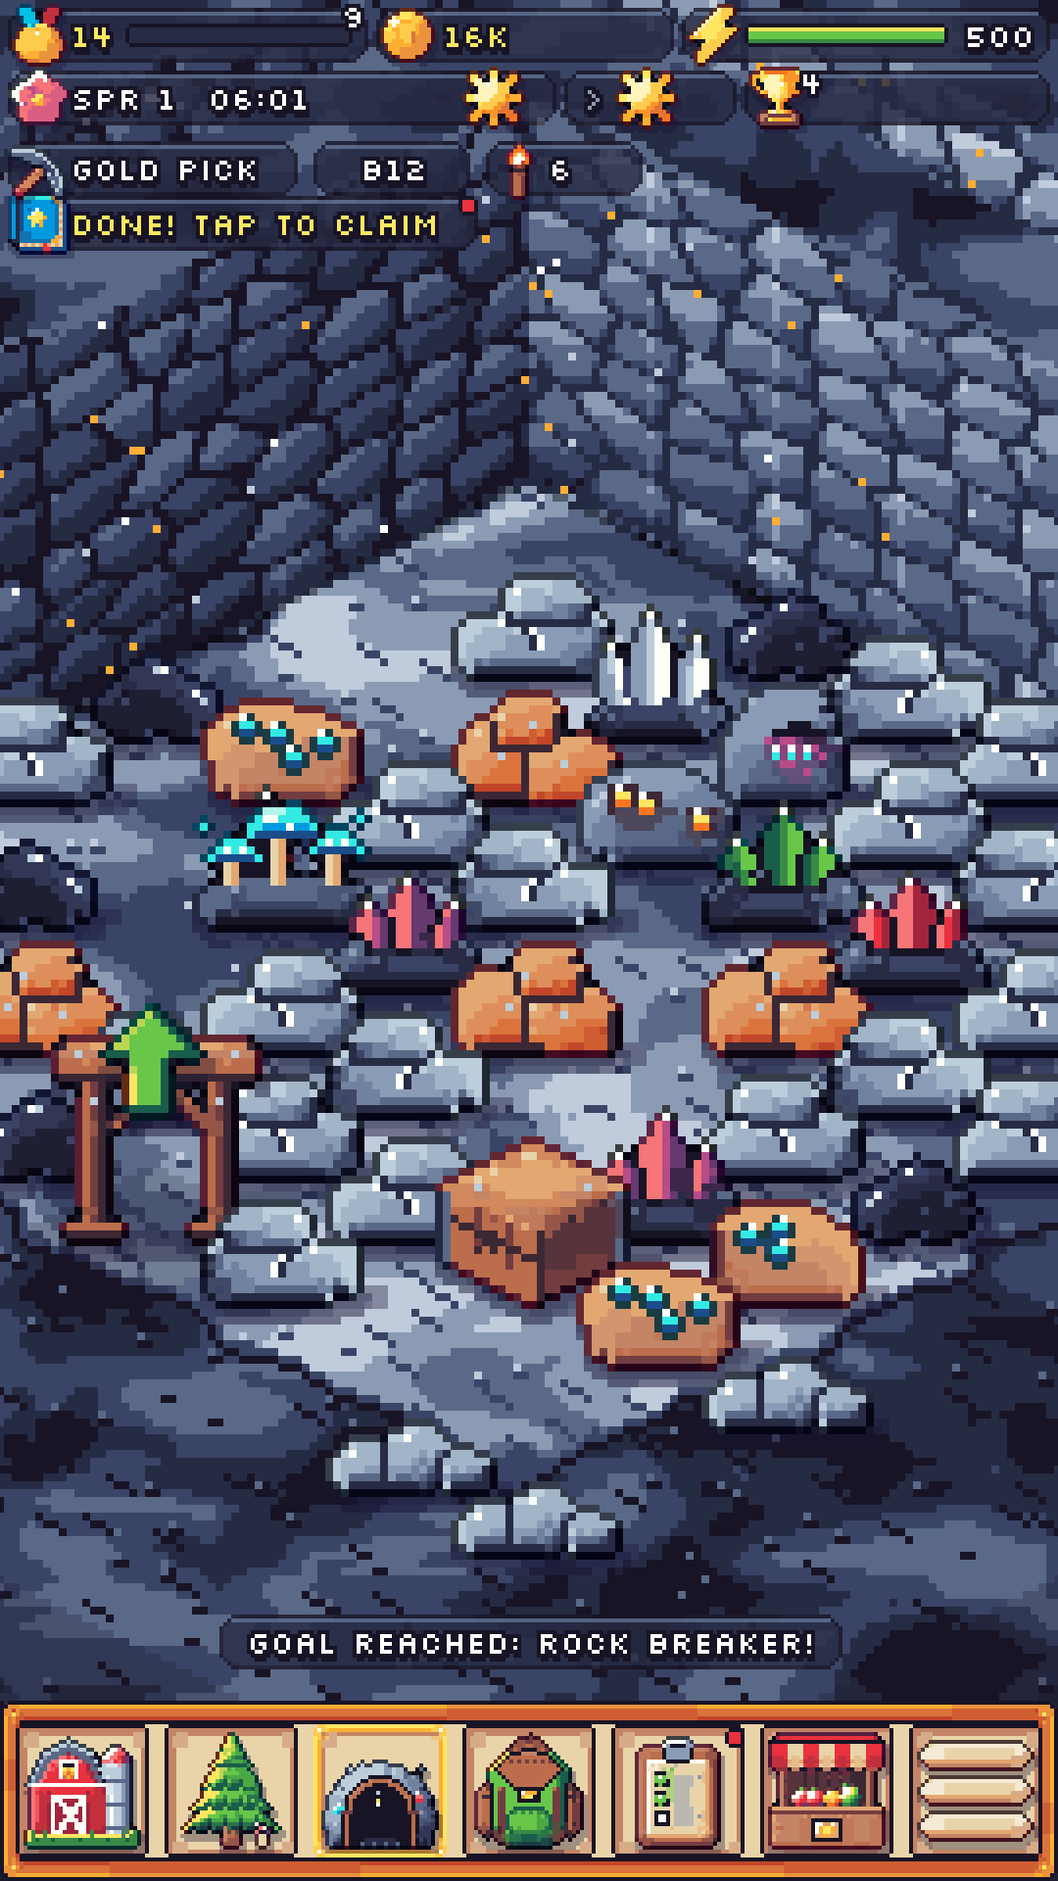
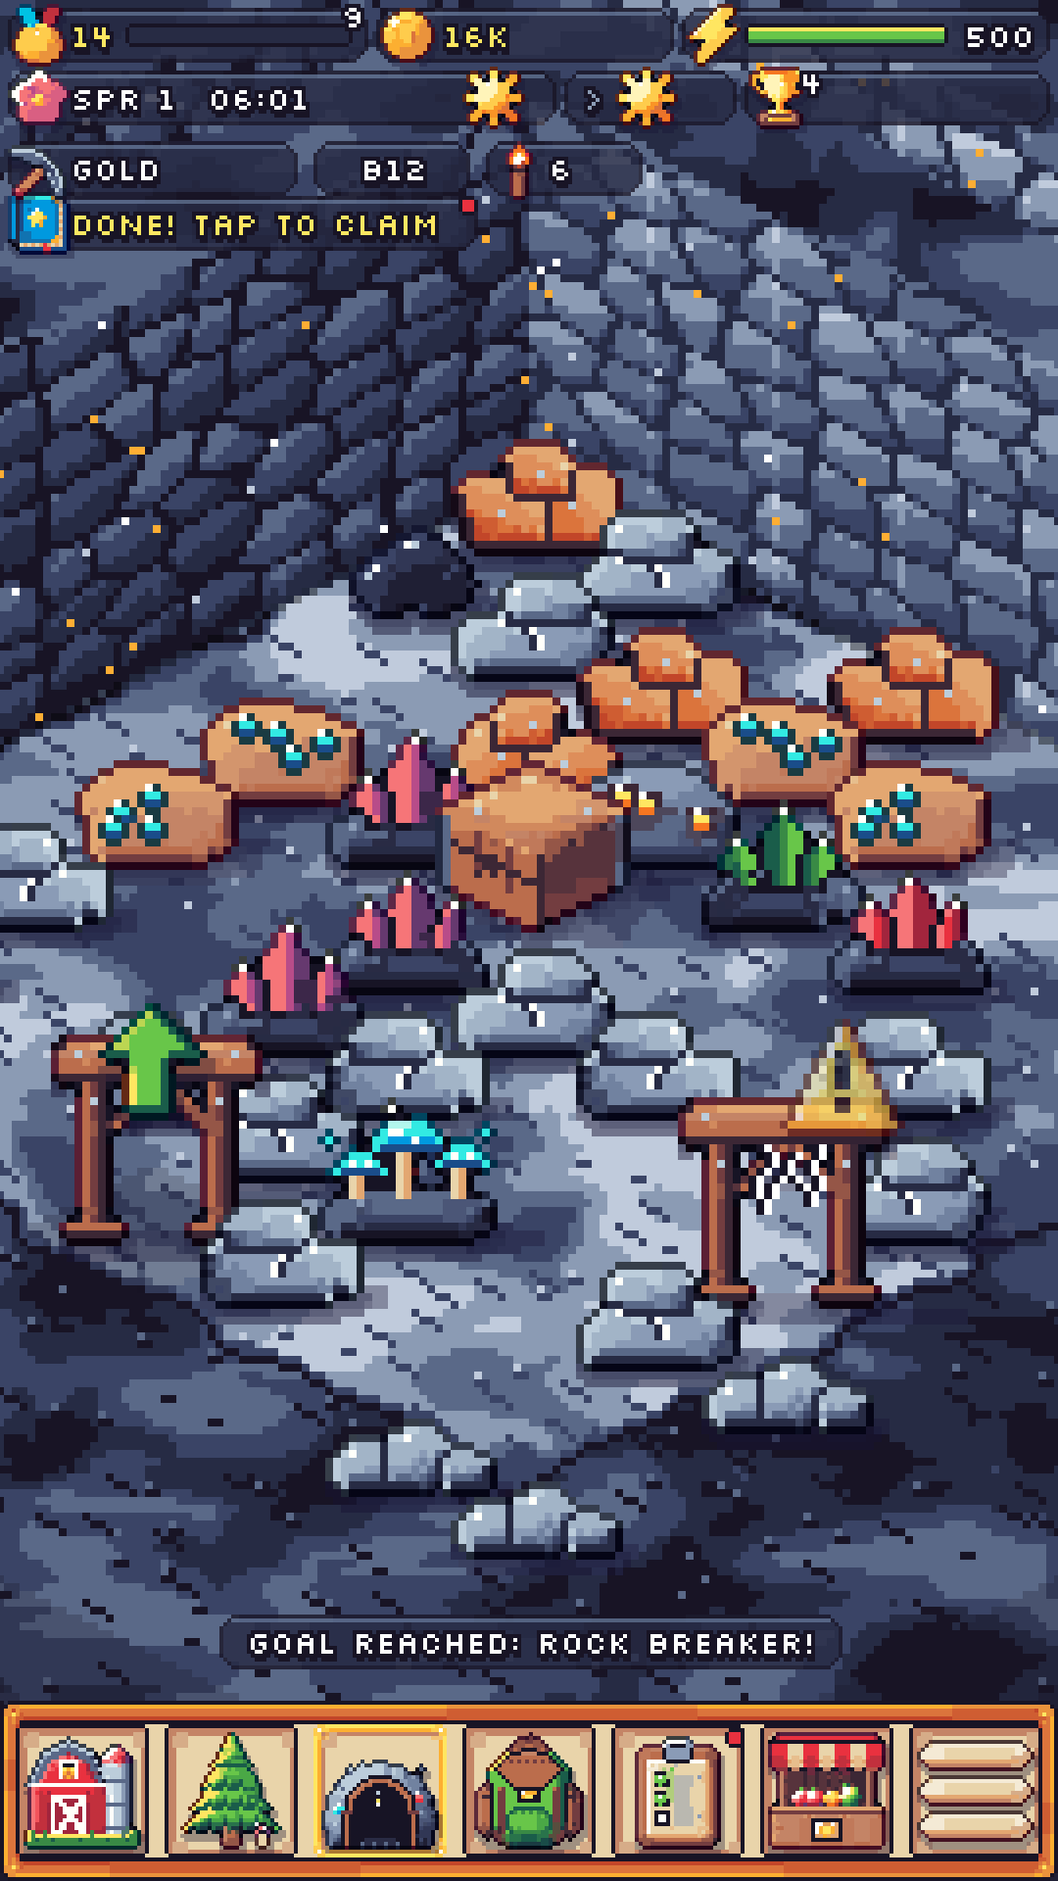
Playtest round 7: pasture sign, Decorate at the top of the menu, glowing decor tiles, fishing recast pause, clearer rewards
Claude-Session: https://claude.ai/code/session_01WzqNnDX2S9CAE6QnGepdXg

Changed region(s): [[0.0, 0.2188, 1.0, 0.75], [0.1528, 0.0625, 0.2444, 0.125]]

diff --git a/farm-game/app/src/main/kotlin/com/ditherfarm/ui/Panels.kt b/farm-game/app/src/main/kotlin/com/ditherfarm/ui/Panels.kt
@@ -447,7 +447,7 @@ class Panels(private val game: Game, private val hud: Hud) {
             g.sprite("icons/coin", (tx + 2).toFloat(), (cy + 42).toFloat())
             g.text("${o.coins}", tx + 10, cy + 38, Gfx.INK, outline = 0, shadow = false)
             g.sprite("icons/xp", (tx + 20 + g.textWidth("${o.coins}")).toFloat(), (cy + 42).toFloat())
-            g.text("${o.xp}", tx + 28 + g.textWidth("${o.coins}"), cy + 38, Gfx.INK, outline = 0, shadow = false)
+            g.text("${o.xp} XP", tx + 28 + g.textWidth("${o.coins}"), cy + 38, Gfx.INK, outline = 0, shadow = false)
             val can = world.canDeliver(i)
             if (ui.button("deliver-$i", x + pw - 76, cy + 30, 50, 16, "SEND", style = if (can) "green" else "grey")) {
                 if (world.deliver(i)) { game.sfx.play("sell"); game.haptics.heavy() } else game.sfx.play("error")
@@ -462,11 +462,13 @@ class Panels(private val game: Game, private val hud: Hud) {
 
     // -------------------------------------------------------------- settings
     fun settings(): Boolean {
-        val (x, y, pw, ph) = frame("SETTINGS", 274).toList()
+        val (x, y, pw, ph) = frame("MENU", 296).toList()
         if (closeButton(x, y, pw)) return false
+        // First, so it's found (a playtest only found it under the settings, round 7).
+        if (ui.button("decorate", x + 10, y + 24, pw - 20, 18, "DECORATE YOUR FARM", "icons/heart", "gold")) { onDecorShop?.invoke(); return true }
         val s = world.state
         fun row(i: Int, icon: String, label: String, on: Boolean): Boolean {
-            val ry = y + 28 + i * 20
+            val ry = y + 50 + i * 20
             g.sprite(icon, (x + 18).toFloat(), (ry + 6).toFloat())
             g.text(label, x + 30, ry + 2, Gfx.INK, outline = 0, shadow = false)
             return ui.toggle("t-$label", x + pw - 34, ry + 1, on)
@@ -476,7 +478,7 @@ class Panels(private val game: Game, private val hud: Hud) {
         if (row(2, "icons/bell", "NOTIFICATIONS", s.notifications)) s.notifications = !s.notifications
         if (row(3, "icons/sound_on", "MUSIC", s.music)) { s.music = !s.music; game.applySettings() }
         if (row(4, "icons/weather_cloudy", "AMBIENCE", s.ambience)) { s.ambience = !s.ambience; game.applySettings() }
-        val by = y + 136
+        val by = y + 158
         if (ui.button("export", x + 10, by, (pw - 26) / 2, 18, "EXPORT", "icons/export", "blue")) game.host.requestExport()
         if (ui.button("import", x + 16 + (pw - 26) / 2, by, (pw - 26) / 2, 18, "IMPORT", "icons/import", "blue")) game.host.requestImport()
         val label = when (confirmNewGame) { 0 -> "NEW FARM"; 1 -> "SURE? TAP AGAIN"; else -> "REALLY? LAST TAP" }
@@ -485,7 +487,6 @@ class Panels(private val game: Game, private val hud: Hud) {
             if (confirmNewGame >= 3) { game.newGame(); confirmNewGame = 0; hud.toast("A fresh start!"); return false }
         }
         if (ui.button("story", x + 10, by + 48, pw - 20, 18, "STORY: WATCH THE OPENING", "icons/book", "wood")) { onStory?.invoke(); return true }
-        if (ui.button("decorate", x + 10, by + 72, pw - 20, 18, "DECORATE YOUR FARM", "icons/heart", "gold")) { onDecorShop?.invoke(); return true }
         g.text("DITHER FARM 0.1", x + pw / 2, y + ph - 30, Gfx.MUTED, align = 0, outline = 0, shadow = false)
         g.text("FONT SILKSCREEN (OFL) - ENDESGA 32", x + pw / 2, y + ph - 19, Gfx.MUTED, align = 0, outline = 0, shadow = false)
         return true
@@ -917,8 +918,10 @@ class Panels(private val game: Game, private val hud: Hud) {
                 else -> pinToggle("ach:${a.id}:$tier", x + pw - 18, ry + 10)
             }
             if (!done) {
-                val reward = if (t.coins > 0) "${Ui.compact(t.coins)}c" else if (t.xp > 0) "${t.xp}XP" else "GIFT"
+                // A coin icon, not a bare "C" (playtest round 7); the row has little room.
+                val reward = if (t.coins > 0) Ui.compact(t.coins) else if (t.xp > 0) "${t.xp}XP" else "GIFT"
                 g.text(reward, x + pw - 12, ry + 22, 0xFF3E8948.toInt(), align = 1, outline = 0, shadow = false)
+                if (t.coins > 0) g.sprite("icons/coin", (x + pw - 22 - g.textWidth(reward)).toFloat(), (ry + 26).toFloat())
             }
         }
         c.restore()
@@ -1135,7 +1138,7 @@ class Panels(private val game: Game, private val hud: Hud) {
             if (d.keepsake != null) g.text("GIFT  +${d.beauty}", cx + 36, cy + 13, Gfx.RED, outline = 0, shadow = false)
             else {
                 g.sprite("icons/coin", (cx + 40).toFloat(), (cy + 17).toFloat())
-                g.text("${d.price}  +${d.beauty}", cx + 47, cy + 13, Gfx.INK, outline = 0, shadow = false)
+                g.text("${d.price}  +${d.beauty}", cx + 49, cy + 13, Gfx.INK, outline = 0, shadow = false)
             }
             val why = world.decorBlocker(d.id)
             when {
@@ -1243,7 +1246,7 @@ class Panels(private val game: Game, private val hud: Hud) {
         val hy = y + ph - 46
         g.text("RANCH HAND: FILLS THE TROUGH", x + 10, hy, Gfx.INK, outline = 0, shadow = false)
         g.text("AND COLLECTS EACH MORNING", x + 10, hy + 10, Gfx.INK, outline = 0, shadow = false)
-        g.text(if (r.ranchHand) "HIRED" else RANCH_HAND_COST.entries.joinToString(" ") { (k, v) -> if (k == "coins") "${v}C" else "$v ${world.data.name(k).uppercase()}" }, x + 10, hy + 22, Gfx.MUTED, outline = 0, shadow = false)
+        g.text(if (r.ranchHand) "HIRED" else RANCH_HAND_COST.entries.joinToString(" ") { (k, v) -> if (k == "coins") "$v COINS" else "$v ${world.data.name(k).uppercase()}" }, x + 10, hy + 22, Gfx.MUTED, outline = 0, shadow = false)
         if (!r.ranchHand) {
             val why = world.ranchHandBlocker()
             if (ui.button("ranch-hand", x + pw - 66, hy + 2, 56, 18, if (world.level < RANCH_HAND_LEVEL) "L$RANCH_HAND_LEVEL" else "HIRE", style = if (why == null) "gold" else "grey")) {
@@ -1409,7 +1412,7 @@ class Panels(private val game: Game, private val hud: Hud) {
                 g.sprite("items/${d.fruit}", (x + 40).toFloat(), (ry + 28).toFloat())
                 g.text(d.name.uppercase(), x + 52, ry + 2, Gfx.INK, outline = 0, shadow = false)
                 g.text(d.seasons.sortedBy { it.ordinal }.joinToString(" ") { it.label.uppercase() }, x + 52, ry + 13, Gfx.MUTED, outline = 0, shadow = false)
-                g.text("${d.yield} EVERY ${d.everyDays} DAYS", x + 52, ry + 24, Gfx.MUTED, outline = 0, shadow = false)
+                g.text("${d.yield} FRUIT EVERY ${d.everyDays} DAYS", x + 52, ry + 24, Gfx.MUTED, outline = 0, shadow = false)
                 val why = world.treeBlocker(spot, d.id)
                 val label = if (world.level < d.unlockLevel) "L${d.unlockLevel}" else "${d.price}"
                 if (ui.button("tree-${d.id}", x + pw - 66, ry + 9, 56, 18, label, if (world.level < d.unlockLevel) null else "icons/coin", style = if (why == null) "green" else "grey")) {
@@ -1428,7 +1431,7 @@ class Panels(private val game: Game, private val hud: Hud) {
         g.text("FRUITS IN", x + 78, y + 44, Gfx.MUTED, outline = 0, shadow = false)
         g.text(d.seasons.sortedBy { it.ordinal }.joinToString(" ") { it.label.uppercase() }, x + 78, y + 54, Gfx.INK, outline = 0, shadow = false)
         g.sprite("items/${d.fruit}", (x + 85).toFloat(), (y + 75).toFloat())
-        g.text("${d.yield} EVERY ${d.everyDays} DAYS", x + 96, y + 71, Gfx.INK, outline = 0, shadow = false)
+        g.text("x${d.yield} EVERY ${d.everyDays} DAYS", x + 96, y + 71, Gfx.INK, outline = 0, shadow = false)
         if (t.fruit > 0 && ui.button("tree-pick", x + 12, y + ph - 30, 100, 20, "PICK", style = "green")) { world.pickFruit(spot); return false }
         if (ui.button("tree-dig", x + pw - 112, y + ph - 30, 100, 20, if (digArmed) "SURE?" else "DIG UP", style = "red")) {
             if (digArmed) { world.digUpTree(spot); digArmed = false; return false }

diff --git a/farm-game/app/src/main/kotlin/com/ditherfarm/ui/FarmScreen.kt b/farm-game/app/src/main/kotlin/com/ditherfarm/ui/FarmScreen.kt
@@ -201,7 +201,7 @@ class FarmScreen(game: Game) : IsoMapScreen(game, groundSeed = 31), WorldListene
         props.clear()
         waterTiles.clear()
         val reserved = reservedTiles.also { it.clear() }
-        listOf(FarmMap.BUNKHOUSE, FarmMap.TRUCK, FarmMap.MERCHANT, FarmMap.SIGN_FOREST, FarmMap.SIGN_MINE, FarmMap.ORCHARD_SIGN, FarmMap.STATUE, FarmCrew.HARVESTER_PARK).forEach { reserved += key(it.first, it.second) }
+        listOf(FarmMap.BUNKHOUSE, FarmMap.TRUCK, FarmMap.MERCHANT, FarmMap.SIGN_FOREST, FarmMap.SIGN_MINE, FarmMap.ORCHARD_SIGN, FarmMap.PASTURE_SIGN, FarmMap.STATUE, FarmCrew.HARVESTER_PARK).forEach { reserved += key(it.first, it.second) }
         for (b in 0 until FieldLayout.BLOCKS) FarmCrew.crateTile(b).let { reserved += key(it.first, it.second) }
         for (dc in 0..1) for (dr in 0..1) reserved += key(FarmMap.TRUCK.first + dc, FarmMap.TRUCK.second + dr)
         (FarmMap.HOUSES + listOf(FarmMap.SHOP_SEED, FarmMap.SHOP_SMITH, FarmMap.SHOP_CARPENTER, FarmMap.SHOP_CAFE)).forEach { reserved += key(it.first, it.second) }
@@ -500,6 +500,7 @@ class FarmScreen(game: Game) : IsoMapScreen(game, groundSeed = 31), WorldListene
             if (inView(x, y)) { hitSprite(c, r, "decor/festival_statue", x, y); list.add(y) { game.gfx.sprite("decor/festival_statue", x, y) } }
         }
         drawOrchard(list)
+        drawPastureSign(list)
         herd.collect(list, this)
         village.collect(list, this)
         fishing.collect(list)
@@ -573,13 +574,14 @@ class FarmScreen(game: Game) : IsoMapScreen(game, groundSeed = 31), WorldListene
 
     /** While a decoration is being placed: every free tile in view is marked green (a refused tap flashes red). */
     private fun drawDecorSpots(g: Gfx) {
-        // Full strength: the dawn and dusk tint would wash out anything fainter.
+        // Full strength: the dawn and dusk tint would wash out anything fainter. White, as green
+        // vanished on the grass (playtest round 7).
         val a = (sin(time * 3f) * 25 + 230).toInt()
         for (r in 0 until rows) for (c in 0 until cols) {
             val x = Iso.x(c, r).toFloat(); val y = Iso.y(c, r).toFloat()
             if (!inView(x, y, 8f)) continue
             if (decorKey(c, r) == decorBad && decorBadTime > 0) g.sprite("tiles/cursor_bad", x, y)
-            else if (decorFree(c, r)) g.sprite("tiles/cursor_ok", x, y, a)
+            else if (decorFree(c, r)) g.sprite("tiles/cursor", x, y, a)
         }
     }
 
@@ -597,6 +599,22 @@ class FarmScreen(game: Game) : IsoMapScreen(game, groundSeed = 31), WorldListene
             a.product -> world.collectProduct(i)
             !world.pettedToday(a) -> world.petAnimal(i)
             else -> chrome.open(Chrome.Panel.PASTURE)
+        }
+    }
+
+    /** The pasture's sign: named until the first animal arrives, then an egg; the level while locked. */
+    private fun drawPastureSign(list: DrawList) {
+        val (sc, sr) = FarmMap.PASTURE_SIGN
+        val sx = Iso.x(sc, sr).toFloat(); val sy = Iso.centerY(sc, sr).toFloat()
+        if (!inView(sx, sy)) return
+        hitSprite(sc, sr, "deco/field_sign", sx, sy)
+        val empty = world.ranch.animals.isEmpty()
+        list.add(sy) {
+            val g = game.gfx
+            g.sprite("deco/field_sign", sx, sy)
+            if (empty) g.text("PASTURE", sx.toInt(), (sy - 34).toInt(), Gfx.WHITE, align = 0)
+            if (world.level < com.ditherfarm.game.ANIMAL_LEVEL) g.text("L${com.ditherfarm.game.ANIMAL_LEVEL}", sx.toInt(), (sy - 15).toInt(), 0xFFC0CBDC.toInt(), align = 0)
+            else g.sprite("items/egg", sx, sy - 13)
         }
     }
 
@@ -793,7 +811,7 @@ class FarmScreen(game: Game) : IsoMapScreen(game, groundSeed = 31), WorldListene
         ui.panel(2, y, w - 4, 30, dark = true)
         g.sprite("decor/$id", 16f, y + 26f)
         g.text("PLACE ${d.name.uppercase()}  ${d.price} COINS", 32, y + 5, Gfx.GOLD)
-        g.text(if (decorTile < 0) "TAP A GREEN TILE ON THE FARM" else "TAP AGAIN TO PLACE IT THERE", 32, y + 17, Gfx.WHITE)
+        g.text(if (decorTile < 0) "TAP A GLOWING TILE ON THE FARM" else "TAP AGAIN TO PLACE IT THERE", 32, y + 17, Gfx.WHITE)
         if (ui.button("decor-cancel", w - 22, y + 4, 16, 12, null, "ui/x", "red")) { decorPlacing = null; decorTile = -1 }
     }
 
@@ -847,7 +865,7 @@ class FarmScreen(game: Game) : IsoMapScreen(game, groundSeed = 31), WorldListene
             val t = IntArray(2).also { Iso.pick(wx, wy, it) }
             val k = decorKey(t[0], t[1])
             when {
-                !decorFree(t[0], t[1]) -> { hud.toast("Pick a green-marked patch of grass"); game.sfx.play("error"); decorBad = k; decorBadTime = 0.6f }
+                !decorFree(t[0], t[1]) -> { hud.toast("Pick a glowing patch of grass"); game.sfx.play("error"); decorBad = k; decorBadTime = 0.6f }
                 k == decorTile -> if (world.placeDecor(t[0], t[1], id)) {
                     decorPlacing = null; decorTile = -1; game.sfx.play("craft")
                     // Back to the shop for the next piece (playtest round 6).
@@ -967,6 +985,7 @@ class FarmScreen(game: Game) : IsoMapScreen(game, groundSeed = 31), WorldListene
         }
         if ((c to r) == FarmMap.STATUE && world.act2.chapter >= com.ditherfarm.game.ACT2_DONE) { hud.toast("The valley's statue: Vexmoor never got the valley"); return }
         if ((c to r) == FarmMap.ORCHARD_SIGN) { chrome.open(Chrome.Panel.ORCHARD); return }
+        if ((c to r) == FarmMap.PASTURE_SIGN) { chrome.open(Chrome.Panel.PASTURE); return }
         FarmMap.ORCHARD_TREES.indexOf(c to r).takeIf { it >= 0 }?.let { i ->
             val t = world.orchard.trees[i]
             if (t != null && t.fruit > 0) world.pickFruit(i) else chrome.open(Chrome.Panel.ORCHARD, i.toString())

diff --git a/farm-game/app/src/main/kotlin/com/ditherfarm/ui/Fishing.kt b/farm-game/app/src/main/kotlin/com/ditherfarm/ui/Fishing.kt
@@ -29,11 +29,13 @@ class Fishing(private val game: Game, private val toast: (String) -> Unit) {
     private var zoneAt = 0.5f
     private var c = 0
     private var r = 0
+    /** A moment after a catch or a miss when taps on the water don't cast again (playtest round 7: stray taps cost energy). */
+    private var rest = 0f
     private val world get() = game.world
 
     /** Casts at water tile (c, r); false (with a toast) if fishing is not possible now. */
     fun start(c: Int, r: Int): Boolean {
-        if (active) return false
+        if (active || rest > 0f) return false
         world.fishBlocker()?.let { toast(it); game.sfx.play("error"); return false }
         fish = world.cast() ?: return false
         this.c = c; this.r = r
@@ -43,11 +45,12 @@ class Fishing(private val game: Game, private val toast: (String) -> Unit) {
         return true
     }
 
-    fun cancel() { state = State.IDLE; fish = null }
+    fun cancel() { state = State.IDLE; fish = null; rest = REST }
 
     private fun lose(why: String) { toast(why); game.sfx.play("error"); cancel() }
 
     fun update(dt: Float) {
+        if (rest > 0f) rest -= dt
         if (!active) return
         t += dt
         when (state) {
@@ -142,5 +145,6 @@ class Fishing(private val game: Game, private val toast: (String) -> Unit) {
     companion object {
         /** Seconds to tap after the float dips. */
         const val BITE_WINDOW = 1.2f
+        const val REST = 0.8f
     }
 }

diff --git a/farm-game/app/src/main/kotlin/com/ditherfarm/ui/FarmMap.kt b/farm-game/app/src/main/kotlin/com/ditherfarm/ui/FarmMap.kt
@@ -54,6 +54,8 @@ object FarmMap {
     /** Fenced pasture kept for animals. */
     val PASTURE_C = 32..37
     val PASTURE_R = 13..16
+    /** Its sign by the mine road, so the empty fence reads as a pasture (playtest round 7). */
+    val PASTURE_SIGN = 31 to 13
 
     /** Orchard by the village, between Fields C and E (round 6): fenced, two rows of four trees. */
     val ORCHARD_C = 17..21

diff --git a/farm-game/Docs/DECISIONS.md b/farm-game/Docs/DECISIONS.md
@@ -88,7 +88,7 @@ Answers the owner gave while scoping the game. `GAME_DESIGN.md` must follow thes
 - **Farmhands:** one visit tends a whole plot (harvest, clear, replant, water), every 6 real seconds at level 1 and about 10% faster each level (was 12 s for a single action). A level-1 farmhand keeps a 16-plot field in about 1.6 minutes (was about 10). The panel shows PLOTS/MIN. From the agent playtest: dry plots come before empty ones (a dry crop grows slower), a field crate holds 60 (one wheat wave is 48), a full truck sets off for market by itself so Truck fields never stall, and taps on the bunkhouse's walls and roof open the Workers panel.
 - **Energy:** the bar is 50% bigger at every level (150 at level 1, 370 at level 30) and refills from empty in 45 real minutes (was 90), online or away.
 - **Pet:** at level 4 two strays (a tan farm dog and an orange tabby cat, both in the farm's red collar, hand-pixeled in `pixel/pets.py`) wait by the well, and the adoption panel opens once by itself; the player keeps one and names it (BISCUIT or MISO is filled in). The pet trots after the view on the farm, forest and mine and sits when it catches up. Each dawn it finds one gift (1-3 of: seeds the player can grow, stone, wood, fibre or coins; 8% a quartz, amethyst or old coin), shown by the ripe-crop sparkle over its head, which waits (it does not stack) until tapped; a tap with nothing waiting gets a wag and hearts. Adoption brings a welcome gift.
-- **Decorations:** a DECORATE button in the menu opens a shop of ten hand-pixeled pieces (red and sunny flower beds, bench, gnome, birdbath, garden lamp, topiary, lily pond, rose arch, and the Golden Sheaf statue with the farm's wheat emblem), 150 to 4000 coins, some gated by level. One goes on a free grass or yard tile (not a field, road, river, pasture, building or sign) with two taps, like fixtures; tapping a placed one offers to pick it up for half its price. Each adds beauty; every 5 beauty adds 1% to order coins, up to +10%.
+- **Decorations:** a DECORATE button in the menu (MENU, at the top) opens a shop of ten hand-pixeled pieces (red and sunny flower beds, bench, gnome, birdbath, garden lamp, topiary, lily pond, rose arch, and the Golden Sheaf statue with the farm's wheat emblem), 150 to 4000 coins, some gated by level. One goes on a free grass or yard tile (not a field, road, river, pasture, building or sign) with two taps, like fixtures; tapping a placed one offers to pick it up for half its price. Each adds beauty; every 5 beauty adds 1% to order coins, up to +10%.
 
 ## Round 6 features (owner picks, one at a time)
 - Backlog in order: better tutorial, giant crops, more decorations, pet extras (fetch, pet levels, accessories), orchard (a fenced plot of 8 fruit trees), farm animals (chickens, cows, sheep in the pasture), fishing in the farm river (timing bar), deep mine adventure, villager friendships, Story Act 2 (a rival agri-corp).
@@ -109,6 +109,7 @@ Answers the owner gave while scoping the game. `GAME_DESIGN.md` must follow thes
 - **Story Act 2 (owner picks: an agri-corp rival, weekly goal races, six chapters, a valley festival):** after the bank loan, Ms. Kessler of Vexmoor Agri-Corp wants the valley for mega-farms and challenges the farm to the Vexmoor Cup. Each game week (7 days) runs one contest: harvest, gold crops, orders, felled trees, animal products, orchard fruit, fish, jams and juices, or rocks mined (only ones the farm can enter). The score to beat is set by contest and chapter. Reaching it wins the week at once (800 + 400 per chapter coins); a week not won by its end goes to Vexmoor. Each chapter needs a Cup win plus a goal that ties in the new systems: 5 hearts with a villager, 4 orchard trees, 4 animals, 15 fish, then 50 beauty. Its scene (Kessler, with a portrait of her own) then plays on the farm. The sixth ends with the Valley Festival: Vexmoor leaves, a golden statue stands by the village road, and the farm gets 25,000 coins. The Cup page opens from the Goals panel (CUP).
 - **Camera angle:** the owner looked at mockups of the farmyard in 3/4 top-down and straight overhead, and kept isometric for now. If it ever changes, 3/4 top-down is the cheaper switch: crops, trees, people and animals carry over; buildings, fences, ground tiles and the iso maths (drawing, tapping, depth, camera) don't.
 - **Playtest round 6 fixes:** the fishing rod is now in the Workbench's TOOLS tab (it was missing, so fishing couldn't start); max-tier tools name their tier (Crystal); the orchard's sign is labelled ORCHARD so it isn't mistaken for Field E's; tapping an animal's card in the Pasture panel collects or pets it; hearts are drawn as little hearts.
+- **Playtest round 7 fixes (deep mine, villagers and Act 2, mid-game sweep):** the Goals panel's CUP button opens the Vexmoor Cup (it only closed Goals, so the Cup page could not be reached; a touch test covers it); a dark floor with no torches says the glowing entry rides back up; the mine's tool chip names just the tier (CRYSTAL didn't fit with PICK); a gift is picked first (its name shows) and given with GIVE; villagers are easier to tap while they walk; grey text on the cream panels is darker; the menu is called MENU and DECORATE YOUR FARM is at its top (a tester only found it under the settings); free tiles for a decoration glow white (green vanished on the grass); the pasture has a sign by the Mine road (an egg once animals can be bought, the level before); orchard trees show "6 FRUIT EVERY 2 DAYS"; for a moment after a catch or a miss, taps on the river don't cast again (stray taps cost energy); order cards say XP and goal rewards show a coin.
 
 ## Later (not v1)
 - New areas opened by the village: a lake with fishing, a ranch with animals, an orchard hill, a beach.
